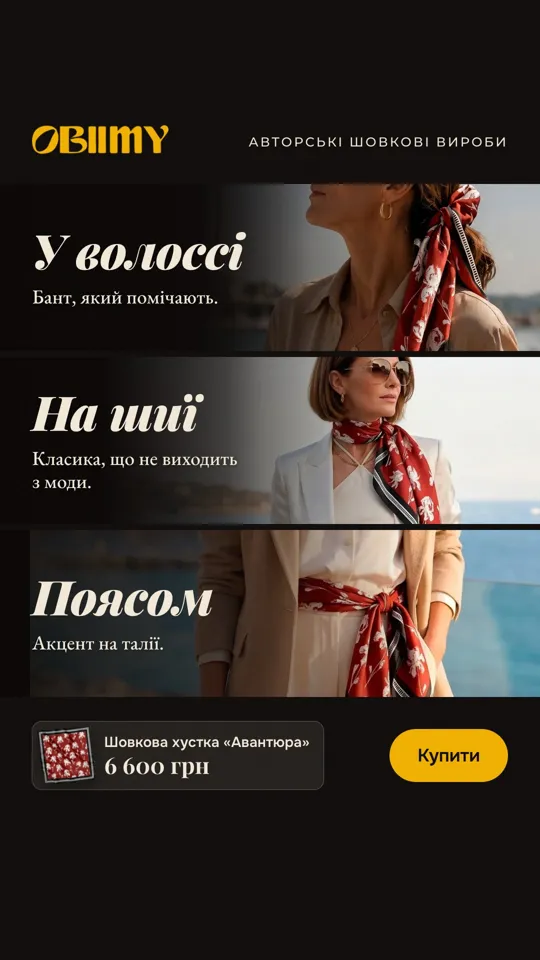
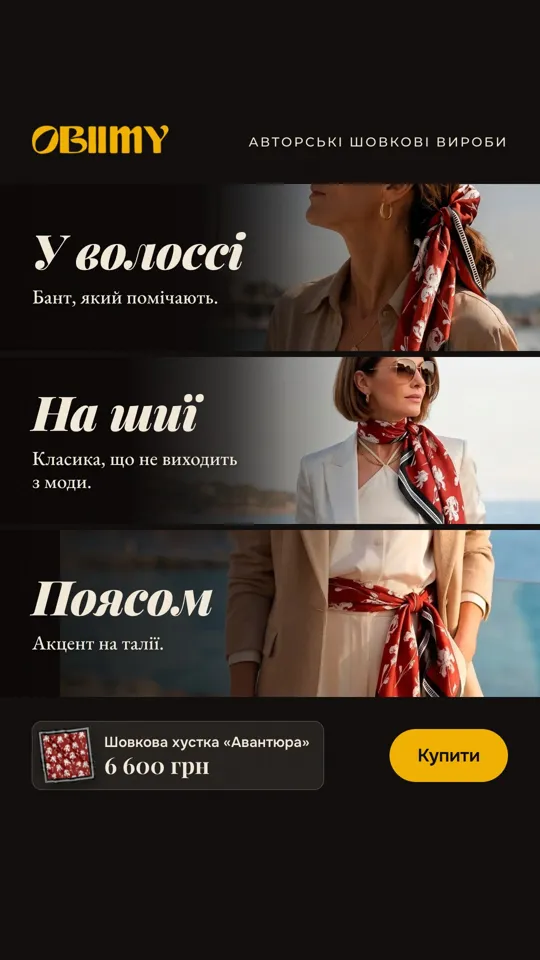
Creatives: «Одна хустка — три способи», story — the two lower figures moved further right

Changed region(s): [[0.3556, 0.3438, 1.0, 0.75]]

diff --git a/site/creatives.html b/site/creatives.html
@@ -105,7 +105,7 @@ footer { margin-top: 72px; color: var(--ink2); font-size: .85rem; border-top: 1p
 <div class="fmt" role="group" aria-label="Формат банерів"><b>Формат:</b><button type="button" data-fmt="plain" aria-pressed="true">Банер 9:16</button><button type="button" data-fmt="story" aria-pressed="false">Сторіс · безпечна зона</button><button type="button" data-fmt="feed" aria-pressed="false">Стрічка 4:5</button><button type="button" data-fmt="square" aria-pressed="false">Квадрат 1:1</button><span class="fn" id="fmtn"></span><button type="button" id="zipall" class="zip" title="Усі формати всіх показаних банерів одним архівом">Завантажити все (ZIP)</button></div>
 
 <section class="grp flat"><div class="grid"><figure class="c st" data-f="st" data-id="solo-tri/t01-decades.jpg" data-plain="{&quot;f&quot;: &quot;creatives/solo-tri/t01-decades.jpg?v=5ddc2575&quot;, &quot;p&quot;: &quot;creatives/solo-tri/t01-decades-540.webp?v=5ddc2575&quot;, &quot;n&quot;: &quot;t01-decades.jpg&quot;, &quot;w&quot;: 540, &quot;h&quot;: 960}" data-alt="{&quot;story&quot;: {&quot;f&quot;: &quot;creatives/solo-tri/t01-decades-story.jpg?v=992465dd&quot;, &quot;p&quot;: &quot;creatives/solo-tri/t01-decades-story-540.webp?v=992465dd&quot;, &quot;n&quot;: &quot;t01-decades-story.jpg&quot;, &quot;w&quot;: 540, &quot;h&quot;: 960}, &quot;feed&quot;: {&quot;f&quot;: &quot;creatives/solo-tri/t01-decades-45.jpg?v=4184246b&quot;, &quot;p&quot;: &quot;creatives/solo-tri/t01-decades-45-540.webp?v=4184246b&quot;, &quot;n&quot;: &quot;t01-decades-45.jpg&quot;, &quot;w&quot;: 540, &quot;h&quot;: 675}, &quot;square&quot;: {&quot;f&quot;: &quot;creatives/solo-tri/t01-decades-1x1.jpg?v=073ab80b&quot;, &quot;p&quot;: &quot;creatives/solo-tri/t01-decades-1x1-540.webp?v=073ab80b&quot;, &quot;n&quot;: &quot;t01-decades-1x1.jpg&quot;, &quot;w&quot;: 540, &quot;h&quot;: 540}}"><a href="creatives/solo-tri/t01-decades.jpg?v=5ddc2575" target="_blank" rel="noopener"><img src="creatives/solo-tri/t01-decades-540.webp?v=5ddc2575" alt="Смуги-історії · варіант A" loading="lazy" width="540" height="960"></a>
-        <figcaption><label class="pick"><input type="checkbox" data-id="solo-tri/t01-decades.jpg"><span>Залишити</span></label><span class="fid">t01</span><a href="creatives/solo-tri/t01-decades.jpg?v=5ddc2575" download="t01-decades.jpg">JPG ↓</a></figcaption></figure><figure class="c st" data-f="st" data-id="solo-tri/t05-avantiura-ways.jpg" data-plain="{&quot;f&quot;: &quot;creatives/solo-tri/t05-avantiura-ways.jpg?v=55b422d6&quot;, &quot;p&quot;: &quot;creatives/solo-tri/t05-avantiura-ways-540.webp?v=55b422d6&quot;, &quot;n&quot;: &quot;t05-avantiura-ways.jpg&quot;, &quot;w&quot;: 540, &quot;h&quot;: 960}" data-alt="{&quot;story&quot;: {&quot;f&quot;: &quot;creatives/solo-tri/t05-avantiura-ways-story.jpg?v=023518a1&quot;, &quot;p&quot;: &quot;creatives/solo-tri/t05-avantiura-ways-story-540.webp?v=023518a1&quot;, &quot;n&quot;: &quot;t05-avantiura-ways-story.jpg&quot;, &quot;w&quot;: 540, &quot;h&quot;: 960}, &quot;feed&quot;: {&quot;f&quot;: &quot;creatives/solo-tri/t05-avantiura-ways-45.jpg?v=cbe2ee77&quot;, &quot;p&quot;: &quot;creatives/solo-tri/t05-avantiura-ways-45-540.webp?v=cbe2ee77&quot;, &quot;n&quot;: &quot;t05-avantiura-ways-45.jpg&quot;, &quot;w&quot;: 540, &quot;h&quot;: 675}, &quot;square&quot;: {&quot;f&quot;: &quot;creatives/solo-tri/t05-avantiura-ways-1x1.jpg?v=7af2ee6d&quot;, &quot;p&quot;: &quot;creatives/solo-tri/t05-avantiura-ways-1x1-540.webp?v=7af2ee6d&quot;, &quot;n&quot;: &quot;t05-avantiura-ways-1x1.jpg&quot;, &quot;w&quot;: 540, &quot;h&quot;: 540}}"><a href="creatives/solo-tri/t05-avantiura-ways.jpg?v=55b422d6" target="_blank" rel="noopener"><img src="creatives/solo-tri/t05-avantiura-ways-540.webp?v=55b422d6" alt="Смуги-історії · варіант A" loading="lazy" width="540" height="960"></a>
+        <figcaption><label class="pick"><input type="checkbox" data-id="solo-tri/t01-decades.jpg"><span>Залишити</span></label><span class="fid">t01</span><a href="creatives/solo-tri/t01-decades.jpg?v=5ddc2575" download="t01-decades.jpg">JPG ↓</a></figcaption></figure><figure class="c st" data-f="st" data-id="solo-tri/t05-avantiura-ways.jpg" data-plain="{&quot;f&quot;: &quot;creatives/solo-tri/t05-avantiura-ways.jpg?v=55b422d6&quot;, &quot;p&quot;: &quot;creatives/solo-tri/t05-avantiura-ways-540.webp?v=55b422d6&quot;, &quot;n&quot;: &quot;t05-avantiura-ways.jpg&quot;, &quot;w&quot;: 540, &quot;h&quot;: 960}" data-alt="{&quot;story&quot;: {&quot;f&quot;: &quot;creatives/solo-tri/t05-avantiura-ways-story.jpg?v=63a3cf2d&quot;, &quot;p&quot;: &quot;creatives/solo-tri/t05-avantiura-ways-story-540.webp?v=63a3cf2d&quot;, &quot;n&quot;: &quot;t05-avantiura-ways-story.jpg&quot;, &quot;w&quot;: 540, &quot;h&quot;: 960}, &quot;feed&quot;: {&quot;f&quot;: &quot;creatives/solo-tri/t05-avantiura-ways-45.jpg?v=cbe2ee77&quot;, &quot;p&quot;: &quot;creatives/solo-tri/t05-avantiura-ways-45-540.webp?v=cbe2ee77&quot;, &quot;n&quot;: &quot;t05-avantiura-ways-45.jpg&quot;, &quot;w&quot;: 540, &quot;h&quot;: 675}, &quot;square&quot;: {&quot;f&quot;: &quot;creatives/solo-tri/t05-avantiura-ways-1x1.jpg?v=7af2ee6d&quot;, &quot;p&quot;: &quot;creatives/solo-tri/t05-avantiura-ways-1x1-540.webp?v=7af2ee6d&quot;, &quot;n&quot;: &quot;t05-avantiura-ways-1x1.jpg&quot;, &quot;w&quot;: 540, &quot;h&quot;: 540}}"><a href="creatives/solo-tri/t05-avantiura-ways.jpg?v=55b422d6" target="_blank" rel="noopener"><img src="creatives/solo-tri/t05-avantiura-ways-540.webp?v=55b422d6" alt="Смуги-історії · варіант A" loading="lazy" width="540" height="960"></a>
         <figcaption><label class="pick"><input type="checkbox" data-id="solo-tri/t05-avantiura-ways.jpg"><span>Залишити</span></label><span class="fid">t05</span><a href="creatives/solo-tri/t05-avantiura-ways.jpg?v=55b422d6" download="t05-avantiura-ways.jpg">JPG ↓</a></figcaption></figure><figure class="c st" data-f="st" data-id="solo-main/p01-quiet-luxury.jpg" data-plain="{&quot;f&quot;: &quot;creatives/solo-main/p01-quiet-luxury.jpg?v=c234fc8a&quot;, &quot;p&quot;: &quot;creatives/solo-main/p01-quiet-luxury-540.webp?v=c234fc8a&quot;, &quot;n&quot;: &quot;p01-quiet-luxury.jpg&quot;, &quot;w&quot;: 540, &quot;h&quot;: 960}"><a href="creatives/solo-main/p01-quiet-luxury.jpg?v=c234fc8a" target="_blank" rel="noopener"><img src="creatives/solo-main/p01-quiet-luxury-540.webp?v=c234fc8a" alt="Варіант A · тихий преміум" loading="lazy" width="540" height="960"></a>
         <figcaption><label class="pick"><input type="checkbox" data-id="solo-main/p01-quiet-luxury.jpg"><span>Залишити</span></label><span class="fid">p01</span><a href="creatives/solo-main/p01-quiet-luxury.jpg?v=c234fc8a" download="p01-quiet-luxury.jpg">JPG ↓</a></figcaption></figure><figure class="c st" data-f="st" data-id="solo-main/p05-character.jpg" data-plain="{&quot;f&quot;: &quot;creatives/solo-main/p05-character.jpg?v=030c663a&quot;, &quot;p&quot;: &quot;creatives/solo-main/p05-character-540.webp?v=030c663a&quot;, &quot;n&quot;: &quot;p05-character.jpg&quot;, &quot;w&quot;: 540, &quot;h&quot;: 960}" data-alt="{&quot;story&quot;: {&quot;f&quot;: &quot;creatives/solo-main/p05-character-story.jpg?v=eed94415&quot;, &quot;p&quot;: &quot;creatives/solo-main/p05-character-story-540.webp?v=eed94415&quot;, &quot;n&quot;: &quot;p05-character-story.jpg&quot;, &quot;w&quot;: 540, &quot;h&quot;: 960}, &quot;feed&quot;: {&quot;f&quot;: &quot;creatives/solo-main/p05-character-45.jpg?v=49041a0a&quot;, &quot;p&quot;: &quot;creatives/solo-main/p05-character-45-540.webp?v=49041a0a&quot;, &quot;n&quot;: &quot;p05-character-45.jpg&quot;, &quot;w&quot;: 540, &quot;h&quot;: 675}, &quot;square&quot;: {&quot;f&quot;: &quot;creatives/solo-main/p05-character-1x1.jpg?v=e0087e64&quot;, &quot;p&quot;: &quot;creatives/solo-main/p05-character-1x1-540.webp?v=e0087e64&quot;, &quot;n&quot;: &quot;p05-character-1x1.jpg&quot;, &quot;w&quot;: 540, &quot;h&quot;: 540}}"><a href="creatives/solo-main/p05-character.jpg?v=030c663a" target="_blank" rel="noopener"><img src="creatives/solo-main/p05-character-540.webp?v=030c663a" alt="Варіант A · тихий преміум" loading="lazy" width="540" height="960"></a>
         <figcaption><label class="pick"><input type="checkbox" data-id="solo-main/p05-character.jpg"><span>Залишити</span></label><span class="fid">p05</span><a href="creatives/solo-main/p05-character.jpg?v=030c663a" download="p05-character.jpg">JPG ↓</a></figcaption></figure><figure class="c st" data-f="st" data-id="solo-main/p06-noticed.jpg" data-plain="{&quot;f&quot;: &quot;creatives/solo-main/p06-noticed.jpg?v=22dc43d3&quot;, &quot;p&quot;: &quot;creatives/solo-main/p06-noticed-540.webp?v=22dc43d3&quot;, &quot;n&quot;: &quot;p06-noticed.jpg&quot;, &quot;w&quot;: 540, &quot;h&quot;: 960}" data-alt="{&quot;story&quot;: {&quot;f&quot;: &quot;creatives/solo-main/p06-noticed-story.jpg?v=67901893&quot;, &quot;p&quot;: &quot;creatives/solo-main/p06-noticed-story-540.webp?v=67901893&quot;, &quot;n&quot;: &quot;p06-noticed-story.jpg&quot;, &quot;w&quot;: 540, &quot;h&quot;: 960}, &quot;feed&quot;: {&quot;f&quot;: &quot;creatives/solo-main/p06-noticed-45.jpg?v=e0c1b71b&quot;, &quot;p&quot;: &quot;creatives/solo-main/p06-noticed-45-540.webp?v=e0c1b71b&quot;, &quot;n&quot;: &quot;p06-noticed-45.jpg&quot;, &quot;w&quot;: 540, &quot;h&quot;: 675}, &quot;square&quot;: {&quot;f&quot;: &quot;creatives/solo-main/p06-noticed-1x1.jpg?v=aa799925&quot;, &quot;p&quot;: &quot;creatives/solo-main/p06-noticed-1x1-540.webp?v=aa799925&quot;, &quot;n&quot;: &quot;p06-noticed-1x1.jpg&quot;, &quot;w&quot;: 540, &quot;h&quot;: 540}}"><a href="creatives/solo-main/p06-noticed.jpg?v=22dc43d3" target="_blank" rel="noopener"><img src="creatives/solo-main/p06-noticed-540.webp?v=22dc43d3" alt="Варіант A · тихий преміум" loading="lazy" width="540" height="960"></a>

diff --git a/ads/solo/solo6-story.html b/ads/solo/solo6-story.html
@@ -99,9 +99,9 @@ body { margin: 0; background: #555; font-family: 'Onest', Arial, sans-serif; -we
   
   <div class="band" style="top:368px;height:334px"><img src="src/avantiura-88-5.webp" alt="" style="object-position:50% 46%;;transform:translateX(70px);width:70%;margin-left:auto;-webkit-mask-image:linear-gradient(90deg,transparent 0,#000 30%);mask-image:linear-gradient(90deg,transparent 0,#000 30%)"><div class="veil"></div>
     <div class="txt" style="width:620px"><p class="big" style="font-size:96px">У волоссі</p><p class="small" style="font-size:40px;max-width:480px;margin-top:26px">Бант, який помічають.</p></div></div>
-  <div class="band" style="top:714px;height:334px"><img src="src/avantiura-88-4.webp" alt="" style="object-position:50% 22%;;transform:translateX(80px);width:100%;margin-left:120px;-webkit-mask-image:linear-gradient(90deg,transparent 0,#000 30%);mask-image:linear-gradient(90deg,transparent 0,#000 30%)"><div class="veil"></div>
+  <div class="band" style="top:714px;height:334px"><img src="src/avantiura-88-4.webp" alt="" style="object-position:50% 22%;;transform:translateX(130px);width:100%;margin-left:120px;-webkit-mask-image:linear-gradient(90deg,transparent 0,#000 30%);mask-image:linear-gradient(90deg,transparent 0,#000 30%)"><div class="veil"></div>
     <div class="txt" style="width:620px"><p class="big" style="font-size:96px">На шиї</p><p class="small" style="font-size:40px;max-width:480px;margin-top:26px">Класика, що не виходить<br>з моди.</p></div></div>
-  <div class="band" style="top:1060px;height:334px"><img src="src/avantiura-88-2.webp" alt="" style="object-position:45% 73%;;transform:translateX(60px);width:112%"><div class="veil"></div>
+  <div class="band" style="top:1060px;height:334px"><img src="src/avantiura-88-2.webp" alt="" style="object-position:45% 73%;;transform:translateX(120px);width:112%"><div class="veil"></div>
     <div class="txt" style="width:620px"><p class="big" style="font-size:96px">Поясом</p><p class="small" style="font-size:40px;max-width:480px;margin-top:26px">Акцент на талії.</p></div></div>
   
   <div style="left:64px;right:64px;bottom:340px;display:flex;align-items:center;justify-content:space-between;gap:24px">

diff --git a/ads/solo/build6.py b/ads/solo/build6.py
@@ -184,8 +184,8 @@ triptych("t04-flirt-three-ways", "Один принт — три образи", 
 
 triptych("t05-avantiura-ways", "Одна хустка — три способи", [
     ("avantiura-88-5", "50% 0%", "У волоссі", "Бант, який помічають.", "raw", {"size": 96, "fit": 70, "focus": .48, "sx": 70}),
-    ("avantiura-88-4", "50% 6%", "На шиї", "Класика, що не виходить<br>з моди.", "raw", {"size": 96, "wide": 125, "dx": 120, "focus": .40, "sfocus": .31, "swide": 100, "sx": 80}),
-    ("avantiura-88-2", "45% 76%", "Поясом", "Акцент на талії.", "raw", {"size": 96, "wide": 112, "focus": .67, "sx": 60}),
+    ("avantiura-88-4", "50% 6%", "На шиї", "Класика, що не виходить<br>з моди.", "raw", {"size": 96, "wide": 125, "dx": 120, "focus": .40, "sfocus": .31, "swide": 100, "sx": 130}),
+    ("avantiura-88-2", "45% 76%", "Поясом", "Акцент на талії.", "raw", {"size": 96, "wide": 112, "focus": .67, "sx": 120}),
 ], "", (["avantiura-88-1"], "Шовкова хустка «Авантюра»", "6 600 грн"), "Купити", "Avantiura three ways", plain=True, logo_col="#F2B705")
 
 triptych("t06-formats", "Оберіть свій формат", [
